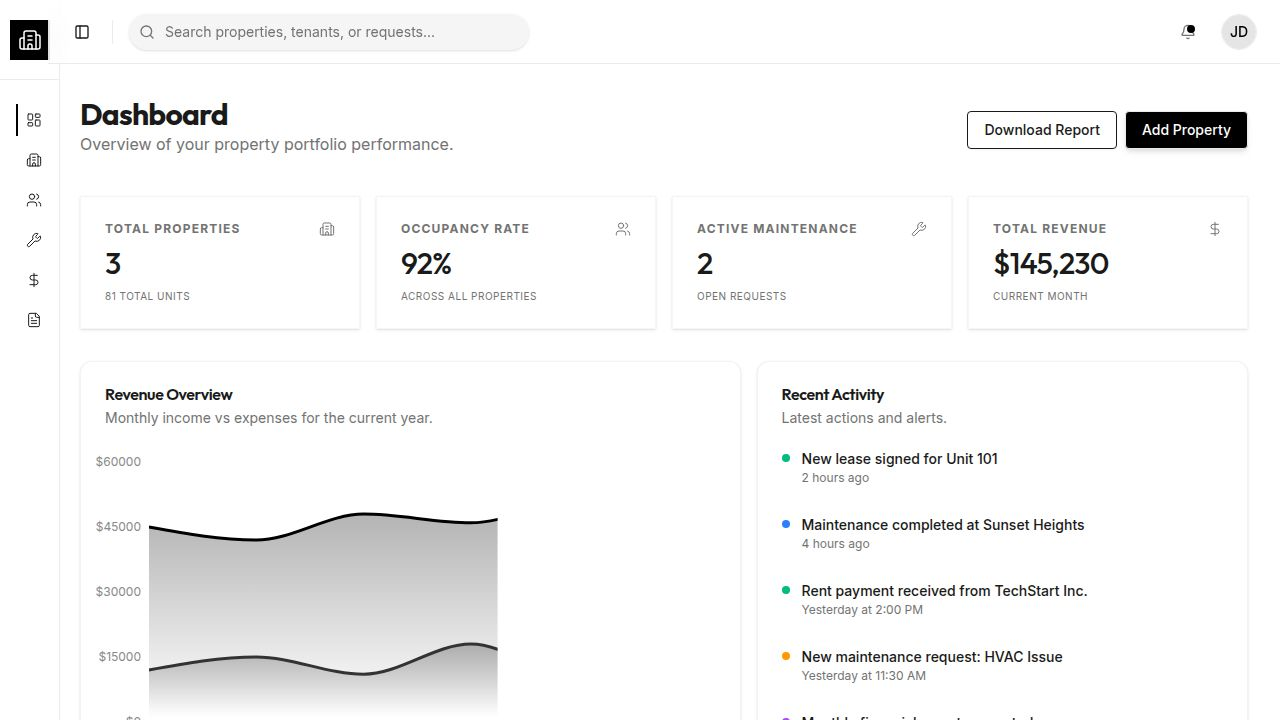
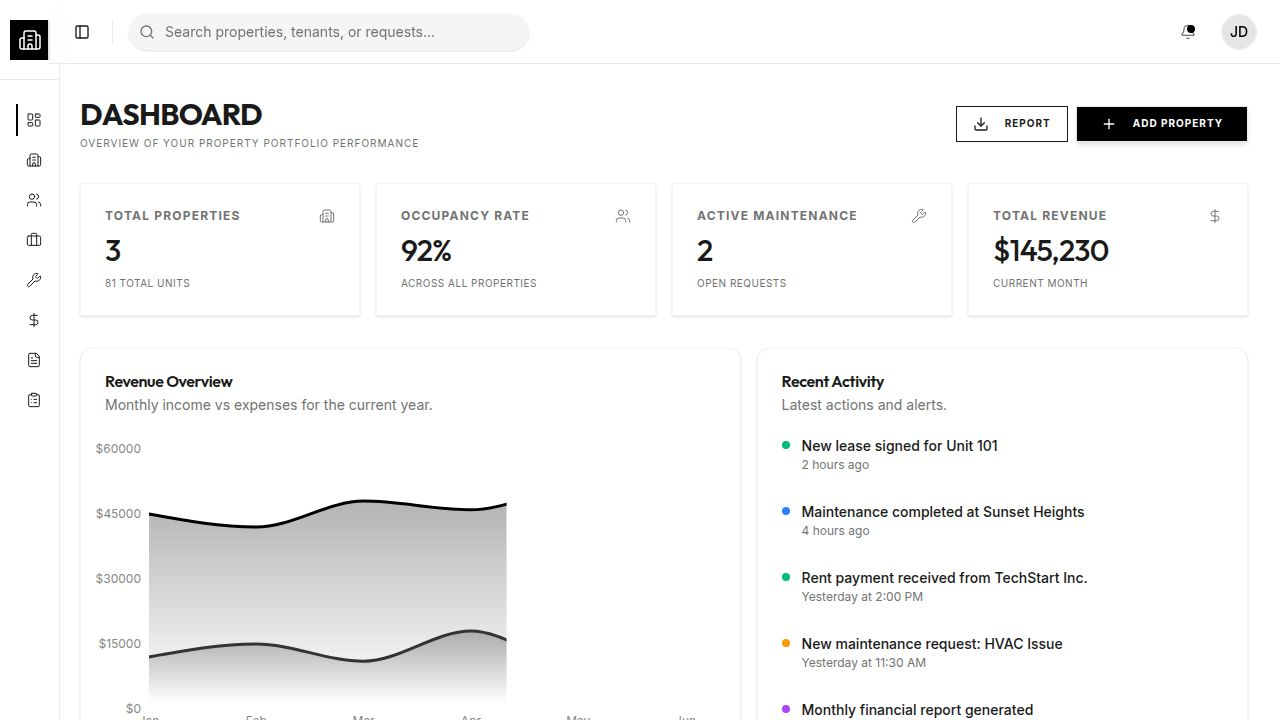
Update application design and functionality across multiple pages
Standardize UI elements and introduce new features like tabbed filtering and enhanced reporting across the dashboard, ledger, and properties pages.

Replit-Commit-Author: Agent
Replit-Commit-Session-Id: b450784c-9e54-4d41-9bdd-a62f595a92a4
Replit-Commit-Checkpoint-Type: full_checkpoint
Replit-Commit-Event-Id: 5ba322f1-57ae-4db4-b10a-def914df0afe
Replit-Commit-Screenshot-Url: https://storage.googleapis.com/screenshot-production-us-central1/92584ae6-ae8c-471b-96eb-a02ee5cb6798/b450784c-9e54-4d41-9bdd-a62f595a92a4/EsBGGhy
Replit-Helium-Checkpoint-Created: true

diff --git a/client/src/pages/properties.tsx b/client/src/pages/properties.tsx
@@ -1,4 +1,5 @@
 import { useState } from "react";
+import { Link, useLocation } from "wouter";
 import { 
   Building2, 
   MapPin, 
@@ -14,6 +15,7 @@ import { Card, CardContent, CardFooter, CardHeader, CardTitle } from "@/componen
 import { Button } from "@/components/ui/button";
 import { Input } from "@/components/ui/input";
 import { Badge } from "@/components/ui/badge";
+import { Tabs, TabsContent, TabsList, TabsTrigger } from "@/components/ui/tabs";
 import {
   DropdownMenu,
   DropdownMenuContent,
@@ -24,39 +26,52 @@ import { properties, units } from "@/lib/mock-data";
 
 export default function PropertiesPage() {
   const [searchTerm, setSearchTerm] = useState("");
+  const [activeTab, setActiveTab] = useState("all");
 
-  const filteredProperties = properties.filter(p => 
-    p.name.toLowerCase().includes(searchTerm.toLowerCase()) || 
-    p.address.toLowerCase().includes(searchTerm.toLowerCase())
-  );
+  const filteredProperties = properties.filter(p => {
+    const matchesSearch = p.name.toLowerCase().includes(searchTerm.toLowerCase()) || 
+                          p.address.toLowerCase().includes(searchTerm.toLowerCase());
+    const matchesType = activeTab === "all" || 
+                        (activeTab === "residential" && p.type === "Residential") ||
+                        (activeTab === "commercial" && p.type === "Commercial");
+    
+    return matchesSearch && matchesType;
+  });
 
   return (
-    <div className="space-y-8">
+    <div className="space-y-8 max-w-7xl mx-auto">
       <div className="flex flex-col sm:flex-row items-start sm:items-center justify-between gap-4">
         <div>
-          <h2 className="text-3xl font-bold tracking-tight font-heading">Properties</h2>
-          <p className="text-muted-foreground">
-            Manage your real estate portfolio.
+          <h2 className="text-3xl font-bold tracking-tight font-heading uppercase">Properties</h2>
+          <p className="text-[10px] uppercase tracking-widest text-muted-foreground mt-1">
+            Manage your real estate portfolio
           </p>
         </div>
-        <Button className="bg-primary text-primary-foreground shadow-md hover:shadow-lg transition-all">
-          <Plus className="mr-2 h-4 w-4" /> Add Property
+        <Button className="bg-primary text-primary-foreground rounded-none px-6 uppercase tracking-widest text-[10px] font-bold shadow-md hover:shadow-lg transition-all">
+          <Plus className="mr-2 h-3 w-3" /> Add Property
         </Button>
       </div>
 
-      <div className="flex items-center gap-2">
-        <div className="relative flex-1 max-w-sm">
-          <Search className="absolute left-2.5 top-2.5 h-4 w-4 text-muted-foreground" />
-          <Input
-            placeholder="Search properties..."
-            className="pl-9 bg-card"
-            value={searchTerm}
-            onChange={(e) => setSearchTerm(e.target.value)}
-          />
+      <div className="flex flex-col md:flex-row gap-4 items-center justify-between border-b border-border/50 pb-4">
+        <Tabs defaultValue="all" className="w-full md:w-auto" onValueChange={setActiveTab}>
+          <TabsList className="bg-transparent gap-6 h-auto p-0 w-full justify-start rounded-none">
+            <TabsTrigger value="all" className="rounded-none border-b-2 border-transparent data-[state=active]:border-primary data-[state=active]:bg-transparent data-[state=active]:shadow-none px-0 pb-3 text-[10px] uppercase tracking-widest font-bold">All Properties</TabsTrigger>
+            <TabsTrigger value="residential" className="rounded-none border-b-2 border-transparent data-[state=active]:border-primary data-[state=active]:bg-transparent data-[state=active]:shadow-none px-0 pb-3 text-[10px] uppercase tracking-widest font-bold">Residential</TabsTrigger>
+            <TabsTrigger value="commercial" className="rounded-none border-b-2 border-transparent data-[state=active]:border-primary data-[state=active]:bg-transparent data-[state=active]:shadow-none px-0 pb-3 text-[10px] uppercase tracking-widest font-bold">Commercial</TabsTrigger>
+          </TabsList>
+        </Tabs>
+
+        <div className="flex flex-col sm:flex-row gap-3 w-full md:w-auto items-center">
+          <div className="relative w-full sm:w-[250px]">
+            <Search className="absolute left-2 top-2.5 h-3 w-3 text-muted-foreground" />
+            <Input
+              placeholder="SEARCH PROPERTIES..."
+              className="pl-7 h-8 text-[10px] rounded-none uppercase tracking-widest bg-muted/30 border-none"
+              value={searchTerm}
+              onChange={(e) => setSearchTerm(e.target.value)}
+            />
+          </div>
         </div>
-        <Button variant="outline" size="icon">
-          <Filter className="h-4 w-4" />
-        </Button>
       </div>
 
       <div className="grid gap-6 md:grid-cols-2 lg:grid-cols-3">
@@ -73,7 +88,7 @@ function PropertyCard({ property }: { property: any }) {
   const vacantUnits = propertyUnits.filter(u => u.status === "Vacant").length;
   
   return (
-    <Card className="overflow-hidden hover:shadow-lg transition-all duration-300 border-border/60 group">
+    <Card className="overflow-hidden hover:border-primary transition-all duration-300 border-border/60 group rounded-none">
       <div className="relative h-56 w-full overflow-hidden">
         <img 
           src={property.image} 
@@ -81,11 +96,11 @@ function PropertyCard({ property }: { property: any }) {
           className="h-full w-full object-cover transition-transform duration-700 group-hover:scale-105"
         />
         <div className="absolute top-3 left-3 flex gap-2">
-          <Badge variant="secondary" className="bg-background/90 backdrop-blur-sm shadow-sm">
+          <Badge variant="secondary" className="bg-background/90 backdrop-blur-sm shadow-sm rounded-none uppercase tracking-widest text-[8px] font-bold">
             {property.type}
           </Badge>
           {vacantUnits > 0 && (
-            <Badge variant="destructive" className="shadow-sm">
+            <Badge variant="destructive" className="shadow-sm rounded-none uppercase tracking-widest text-[8px] font-bold">
               {vacantUnits} Vacant
             </Badge>
           )}
@@ -93,24 +108,24 @@ function PropertyCard({ property }: { property: any }) {
         <div className="absolute top-3 right-3">
           <DropdownMenu>
             <DropdownMenuTrigger asChild>
-              <Button variant="secondary" size="icon" className="h-8 w-8 bg-background/90 backdrop-blur-sm">
+              <Button variant="secondary" size="icon" className="h-8 w-8 bg-background/90 backdrop-blur-sm rounded-none">
                 <MoreHorizontal className="h-4 w-4" />
               </Button>
             </DropdownMenuTrigger>
-            <DropdownMenuContent align="end">
-              <DropdownMenuItem>View Details</DropdownMenuItem>
-              <DropdownMenuItem>Edit Property</DropdownMenuItem>
-              <DropdownMenuItem>View Units</DropdownMenuItem>
-              <DropdownMenuItem className="text-destructive">Delete</DropdownMenuItem>
+            <DropdownMenuContent align="end" className="rounded-none border-border">
+              <DropdownMenuItem className="text-[10px] uppercase tracking-widest">View Details</DropdownMenuItem>
+              <DropdownMenuItem className="text-[10px] uppercase tracking-widest">Edit Property</DropdownMenuItem>
+              <DropdownMenuItem className="text-[10px] uppercase tracking-widest">View Units</DropdownMenuItem>
+              <DropdownMenuItem className="text-[10px] uppercase tracking-widest text-destructive">Delete</DropdownMenuItem>
             </DropdownMenuContent>
           </DropdownMenu>
         </div>
       </div>
       <CardHeader className="pb-3">
         <div className="flex justify-between items-start">
-          <CardTitle className="font-heading text-xl">{property.name}</CardTitle>
+          <CardTitle className="font-heading text-xl uppercase tracking-tight">{property.name}</CardTitle>
         </div>
-        <div className="flex items-center text-sm text-muted-foreground">
+        <div className="flex items-center text-xs uppercase tracking-wide text-muted-foreground">
           <MapPin className="mr-1 h-3.5 w-3.5" />
           {property.address}
         </div>
@@ -118,20 +133,20 @@ function PropertyCard({ property }: { property: any }) {
       <CardContent className="pb-3">
         <div className="grid grid-cols-2 gap-4 py-2">
           <div className="flex flex-col">
-            <span className="text-xs text-muted-foreground uppercase tracking-wider font-semibold">Units</span>
-            <span className="font-medium text-lg">{property.units}</span>
+            <span className="text-[8px] text-muted-foreground uppercase tracking-widest font-bold mb-1">Units</span>
+            <span className="font-mono text-lg font-medium">{property.units}</span>
           </div>
           <div className="flex flex-col">
-            <span className="text-xs text-muted-foreground uppercase tracking-wider font-semibold">Occupancy</span>
-            <span className={`font-medium text-lg ${property.occupancyRate >= 90 ? 'text-emerald-600' : property.occupancyRate >= 75 ? 'text-amber-600' : 'text-destructive'}`}>
+            <span className="text-[8px] text-muted-foreground uppercase tracking-widest font-bold mb-1">Occupancy</span>
+            <span className={`font-mono text-lg font-medium ${property.occupancyRate >= 90 ? 'text-emerald-600' : property.occupancyRate >= 75 ? 'text-amber-600' : 'text-destructive'}`}>
               {property.occupancyRate}%
             </span>
           </div>
         </div>
       </CardContent>
-      <CardFooter className="bg-muted/50 p-3 flex justify-between items-center text-sm border-t border-border/50">
-        <span className="text-muted-foreground">Last updated 2 days ago</span>
-        <Button variant="ghost" size="sm" className="h-8 hover:bg-background">Manage</Button>
+      <CardFooter className="bg-muted/30 p-3 flex justify-between items-center text-sm border-t border-border/50">
+        <span className="text-[8px] uppercase tracking-widest text-muted-foreground">Last updated 2 days ago</span>
+        <Button variant="ghost" size="sm" className="h-8 hover:bg-background rounded-none text-[10px] uppercase tracking-widest font-bold">Manage</Button>
       </CardFooter>
     </Card>
   );

diff --git a/client/src/pages/dashboard.tsx b/client/src/pages/dashboard.tsx
@@ -16,7 +16,9 @@ import {
   DollarSign, 
   ArrowUpRight, 
   ArrowDownRight,
-  TrendingUp
+  TrendingUp,
+  Plus,
+  Download
 } from "lucide-react";
 import { Card, CardContent, CardDescription, CardHeader, CardTitle } from "@/components/ui/card";
 import { Button } from "@/components/ui/button";
@@ -29,17 +31,21 @@ export default function Dashboard() {
   const occupancyRate = Math.round(properties.reduce((acc, p) => acc + p.occupancyRate, 0) / totalProperties);
 
   return (
-    <div className="space-y-8">
-      <div className="flex items-center justify-between space-y-2">
+    <div className="space-y-8 max-w-7xl mx-auto">
+      <div className="flex flex-col sm:flex-row items-start sm:items-center justify-between gap-4">
         <div>
-          <h2 className="text-3xl font-bold tracking-tight font-heading text-foreground">Dashboard</h2>
-          <p className="text-muted-foreground">
-            Overview of your property portfolio performance.
+          <h2 className="text-3xl font-bold tracking-tight font-heading uppercase text-foreground">Dashboard</h2>
+          <p className="text-[10px] uppercase tracking-widest text-muted-foreground mt-1">
+            Overview of your property portfolio performance
           </p>
         </div>
         <div className="flex items-center space-x-2">
-          <Button variant="outline">Download Report</Button>
-          <Button className="bg-primary text-primary-foreground hover:bg-primary/90 shadow-md hover:shadow-lg transition-all">Add Property</Button>
+          <Button variant="outline" className="rounded-none uppercase tracking-widest text-[10px] font-bold">
+            <Download className="mr-2 h-3 w-3" /> Report
+          </Button>
+          <Button className="bg-primary text-primary-foreground hover:bg-primary/90 shadow-md hover:shadow-lg transition-all rounded-none uppercase tracking-widest text-[10px] font-bold px-6">
+            <Plus className="mr-2 h-3 w-3" /> Add Property
+          </Button>
         </div>
       </div>
 

diff --git a/client/src/pages/ledger.tsx b/client/src/pages/ledger.tsx
@@ -50,8 +50,8 @@ export default function GeneralLedgerPage() {
         </div>
         <div className="flex gap-2">
           <NewJournalEntryDialog />
-          <Button className="bg-primary text-primary-foreground rounded-none px-6">
-            <Receipt className="mr-2 h-4 w-4" /> Record Invoice
+          <Button className="bg-primary text-primary-foreground rounded-none px-6 uppercase tracking-widest text-[10px] font-bold">
+            <Receipt className="mr-2 h-3 w-3" /> Record Invoice
           </Button>
         </div>
       </div>
